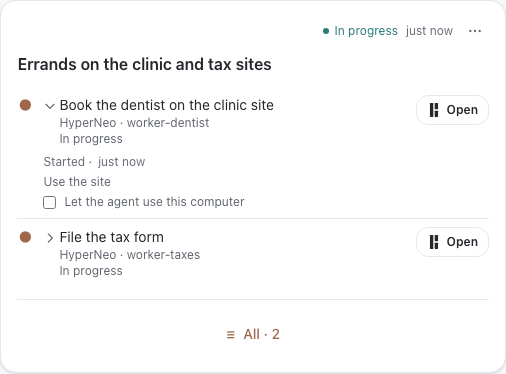
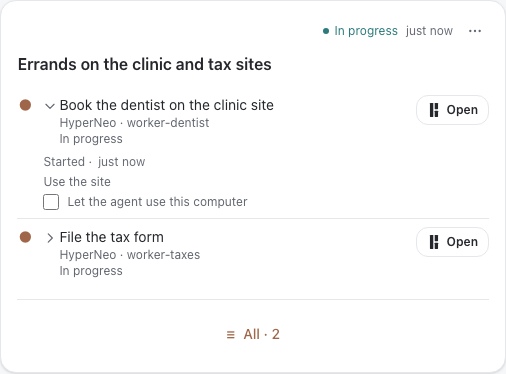
fix: theme the desktop control checkbox like other form checkboxes
The browser's default blue clashed with the card's accent, worst in dark
mode. The shared form checkbox class alone sizes it but leaves the native
color, so accent-accent sets the theme accent too.

Agent: claude-opus-5-5 (effort: medium) via Claude

Changed region(s): [[0.0889, 0.5, 0.504, 0.5588]]

diff --git a/packages/web/src/neo/NeoAskTodos.tsx b/packages/web/src/neo/NeoAskTodos.tsx
@@ -42,6 +42,7 @@ import {
   neoTodoStatus,
 } from './todo-status.ts';
 import { neoTopicColor } from './topic-color.ts';
+import { FORM_CHECKBOX_CLASS } from '../components/ui/FormField.tsx';
 
 const states = {
   waiting: ['ask.state.waiting', 'text-warning', 'font-semibold'],
@@ -291,6 +292,7 @@ function TodoRow({
                   <label class="mt-1 flex w-fit items-center gap-2 text-xs text-fg-muted">
                     <input
                       type="checkbox"
+                      class={`${FORM_CHECKBOX_CLASS} accent-accent`}
                       checked={todo.named?.desktopControl === true}
                       onChange={(event) =>
                         onDesktopControl(todo.id, (event.target as HTMLInputElement).checked)
